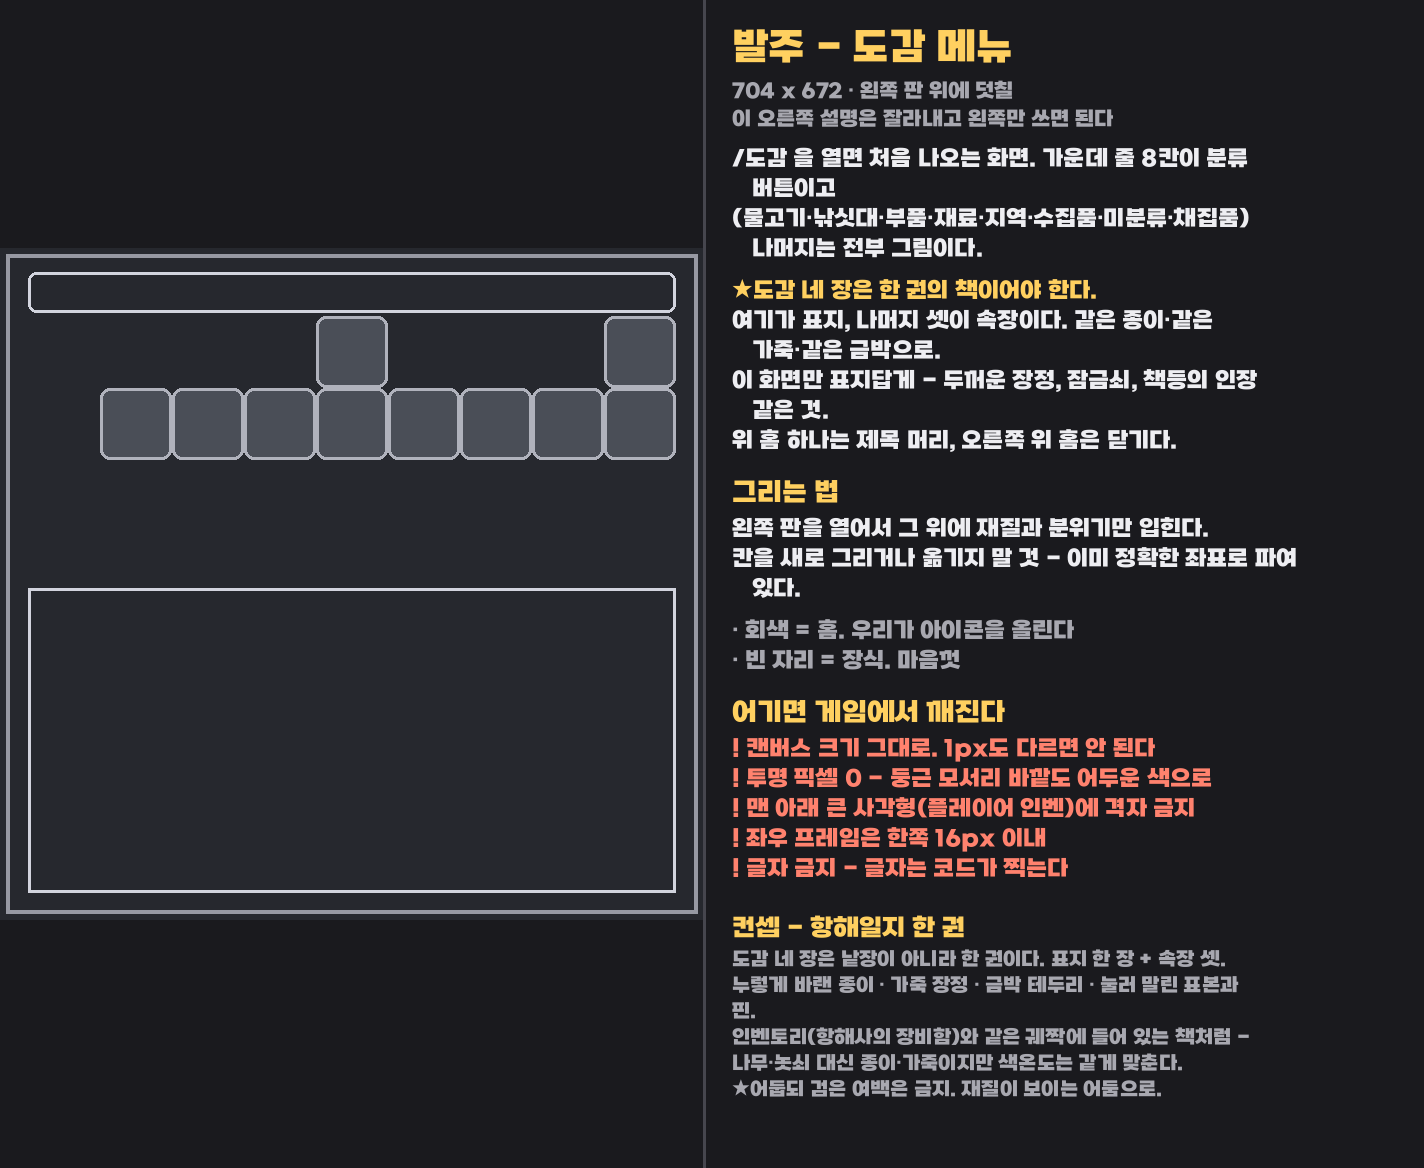
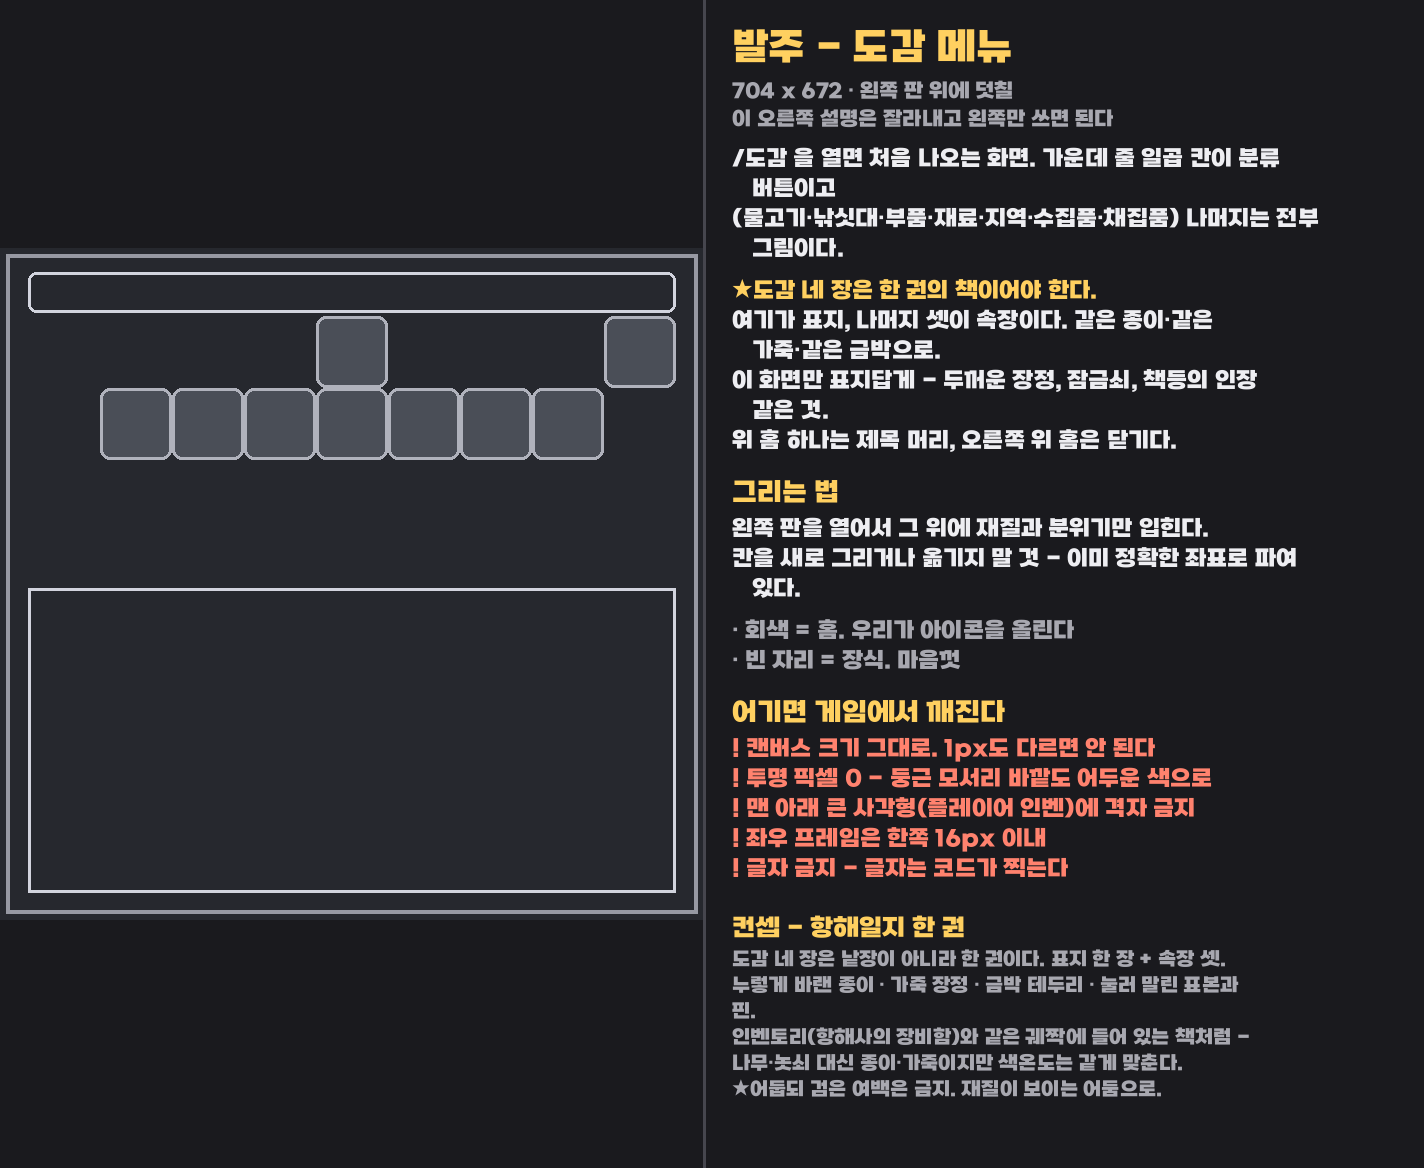
도감 표지 발주서 — 분류 여덟에서 일곱으로
미분류 물고기 폐지에 맞춰 홈을 10~16 으로. 가운데(13) 축 대칭이 된다.

Changed region(s): [[0.7725, 0.1233, 0.927, 0.2158], [0.4017, 0.3082, 0.4944, 0.4007], [0.5253, 0.1849, 0.6798, 0.2466]]

diff --git a/gui-forge/make_order_sheets.py b/gui-forge/make_order_sheets.py
@@ -139,8 +139,8 @@ SHEETS = {
         ("p", "단축바 한 줄은 특히 도드라지게 - 손에 쥔 것들이다."),
     ]),
     "dexmain": ("도감 메뉴", [
-        ("p", "/도감 을 열면 처음 나오는 화면. 가운데 줄 8칸이 분류 버튼이고"),
-        ("p", "(물고기·낚싯대·부품·재료·지역·수집품·미분류·채집품) 나머지는 전부 그림이다."),
+        ("p", "/도감 을 열면 처음 나오는 화면. 가운데 줄 일곱 칸이 분류 버튼이고"),
+        ("p", "(물고기·낚싯대·부품·재료·지역·수집품·채집품) 나머지는 전부 그림이다."),
         ("s", ""),
         ("hi", "★도감 네 장은 한 권의 책이어야 한다."),
         ("p", "여기가 표지, 나머지 셋이 속장이다. 같은 종이·같은 가죽·같은 금박으로."),

diff --git a/gui-forge/make_page_layouts.py b/gui-forge/make_page_layouts.py
@@ -82,9 +82,11 @@ PAGES = {
     # ===== 도감 4종 (2026-08-09 발주) =====
     # 낚싯대/부품/재료/지역/채집품 탭이 슬롯 배열을 공유하고(TAB_SLOTS 28칸),
     # 수집품 상세도 같은 배열(DETAIL_SLOTS)이라 판 하나가 6화면을 덮는다.
+    # 분류 일곱 = 물고기·낚싯대·부품·재료·지역·수집품·채집품. 10~16 이라 가운데(13) 축으로
+    # 좌우가 맞는다. (미분류 물고기는 2026-08-09 폐지 — 관리용 화면이 유저 메뉴에 섞여 있었다.)
     "dexmain": (3, {
         4: ("홈", "머리"), 8: ("홈", "닫기"),
-        **{s: ("홈", "분류") for s in range(10, 18)},
+        **{s: ("홈", "분류") for s in range(10, 17)},
     }, "장식"),
     "dextab": (6, {
         0: ("홈", "뒤로"), 8: ("홈", "닫기"),
